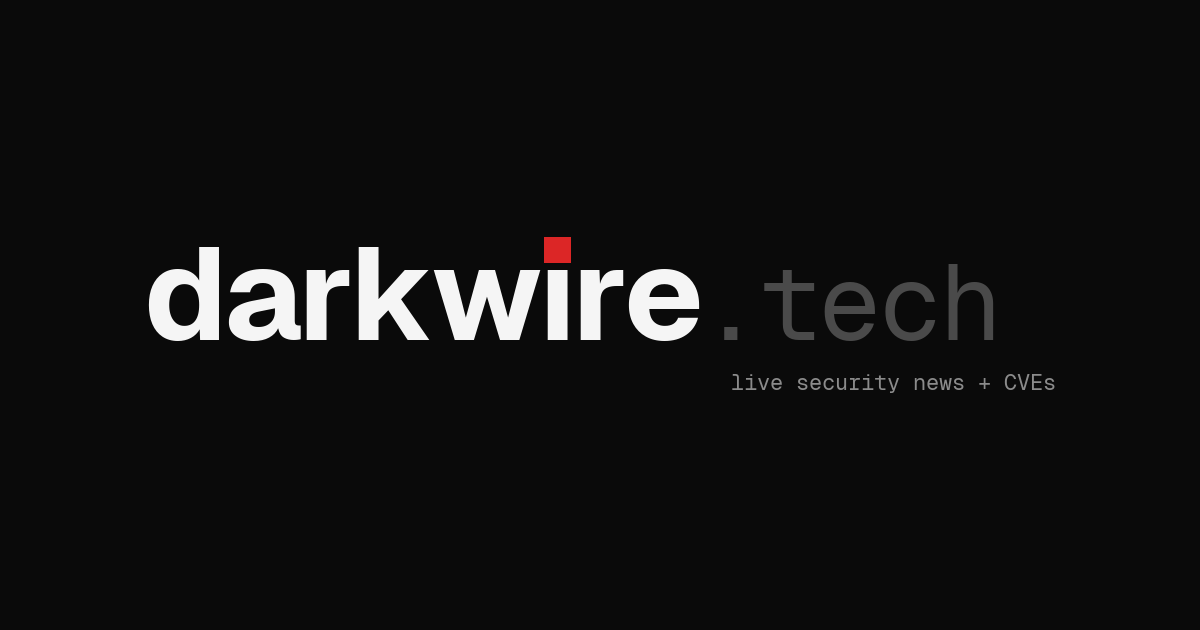
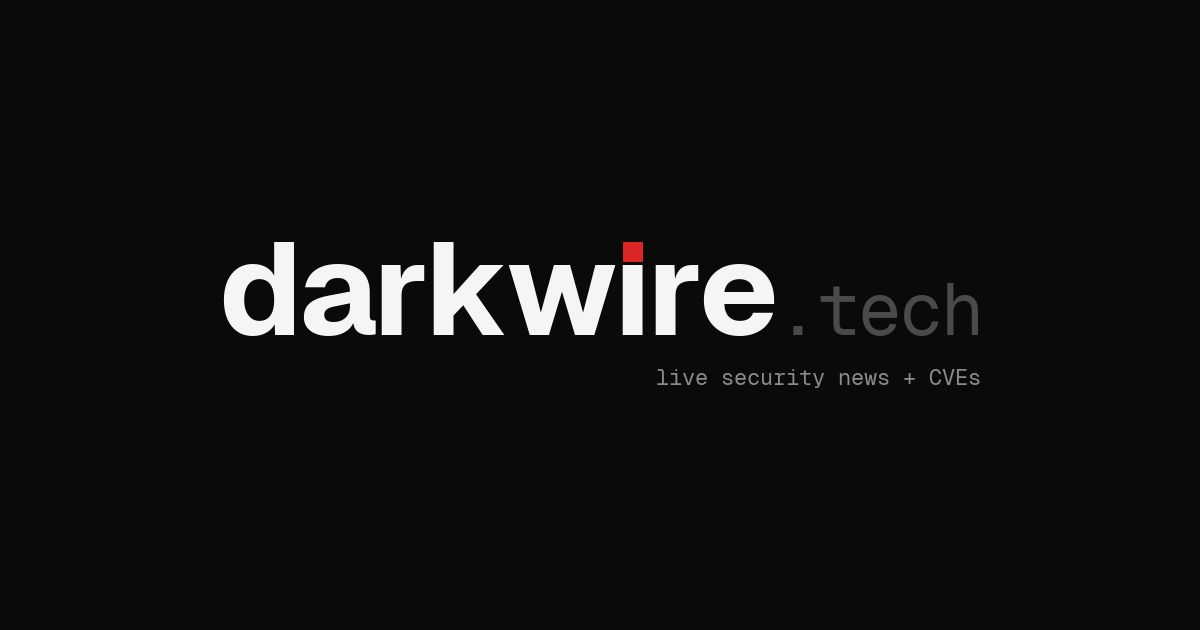
Wordmark: square measured from Geist's i (stem-wide, top on the ascender, pixel-snapped), .tech at 0.55em, faint baseline cursor; tagline ends at the h; og images regenerated

Changed region(s): [[0.1233, 0.3619, 0.8325, 0.5429], [0.555, 0.573, 0.8942, 0.6333]]

diff --git a/web/components/Wordmark.tsx b/web/components/Wordmark.tsx
@@ -1,6 +1,7 @@
 "use client"
 
 import { useCallback, useEffect, useRef, type CSSProperties } from "react"
+import type React from "react"
 import { cn } from "cn"
 
 import type { SyncState } from "@/lib/sync"
@@ -12,12 +13,18 @@ export const WORDMARK = {
     tracking: "-0.03em",
   },
   square: {
-    /** Stands in for the i's dot, over a dotless ı. */
-    size: "0.2em",
-    /** From the bottom of the ı's box (leading-none) to the square's bottom edge. */
-    bottom: "0.725em",
-    /** Horizontal nudge from the ı's center (Geist's ı stem sits a touch left of center). */
-    nudge: "0em",
+    /** Geist Sans 700 "i", measured (canvas, 1000px, ink scan), in em of the wordmark size:
+     *  stem 0.150 wide, left edge 0.066 from the glyph origin, top 0.536 above the baseline;
+     *  native tittle 0.155 x 0.120, from 0.602 to 0.722, a 0.066 gap above the stem; the
+     *  ascender of "d"/"k" tops out at 0.710. A stem-wide square over the native gap would rise
+     *  to 0.752 (above the ascender, as Geist's own tittle does), so the square keeps the stem's
+     *  width, its top sits on the ascender, and the gap is what remains (0.024em), never less
+     *  than one device pixel. Snapped to device pixels at the rendered size (see useSquareGeometry). */
+    stemWidth: 0.15,
+    stemLeft: 0.066,
+    stemTop: 0.536,
+    ascender: 0.71,
+    nativeGap: 0.066,
     live: "var(--critical)",
     stale: "var(--accent)",
     staleOpacity: 0.5,
@@ -25,7 +32,8 @@ export const WORDMARK = {
   },
   tech: {
     text: ".tech",
-    size: "0.8em",
+    /** Of the wordmark size; baseline-aligned with "darkwire". */
+    size: 0.55,
     color: "#4a4a4a",
     tracking: "-0.04em",
     /** Pulls ".tech" in toward "darkwire" (the mono "." sits mid-cell, which reads as a space),
@@ -42,9 +50,12 @@ export const WORDMARK = {
     fadeMs: 350,
   },
   cursor: {
-    color: "rgba(74, 74, 74, 0.6)",
-    width: "0.55em",
-    height: "0.78em",
+    /** A faint hint, not a block: 0.4em wide and the mono x-height tall (em of ".tech"). */
+    color: "rgba(74, 74, 74, 0.4)",
+    width: 0.4,
+    height: 0.53,
+    /** Space between the last character and the cursor, em of ".tech". */
+    gap: 0.06,
   },
   blink: {
     /** Cursor and square blink together: opacity 1 -> low -> 1 on a cosine curve. */
@@ -62,6 +73,59 @@ export const WORDMARK = {
 /** Fired by a poll that found NEW rows (lib/dots.tsx); every mounted wordmark re-runs. */
 export const NEW_ROWS_EVENT = "darkwire:new-rows"
 
+/** The cursor's reserved space after ".tech", in em of the wordmark size. The landing lockup
+ * subtracts it so the tagline and the centering use the visible end of ".tech". */
+export const CURSOR_RESERVE_EM = WORDMARK.tech.size * (WORDMARK.cursor.width + WORDMARK.cursor.gap)
+
+const sq0 = WORDMARK.square
+/** The square in em before it is measured (server render): stem-wide, top on the ascender. */
+const SQUARE_EM = {
+  size: sq0.stemWidth,
+  bottom: sq0.ascender - sq0.stemWidth,
+  left: sq0.stemLeft,
+}
+
+/** Snap the square to device pixels at the rendered size: side = stem width, top on the
+ * ascender (never above), gap to the stem at least one device pixel; if both cannot fit at a
+ * small size the square loses a pixel rather than rise above the ascender. Re-runs on resize
+ * and font load. */
+function useSquareGeometry(anchor: React.RefObject<HTMLSpanElement | null>, square: React.RefObject<HTMLSpanElement | null>) {
+  useEffect(() => {
+    const a = anchor.current
+    const sq = square.current
+    if (!a || !sq) return
+    const place = () => {
+      const fs = parseFloat(getComputedStyle(a).fontSize)
+      if (!fs) return
+      const dpr = window.devicePixelRatio || 1
+      const up = (v: number) => Math.ceil(v * dpr - 1e-6) / dpr
+      const down = (v: number) => Math.floor(v * dpr + 1e-6) / dpr
+      const near = (v: number) => Math.round(v * dpr) / dpr
+      const r = a.getBoundingClientRect() // zero-height inline-block: its bottom is the baseline
+      const base = r.bottom
+      const stemTop = base - sq0.stemTop * fs
+      const ascTop = base - sq0.ascender * fs
+      const bottom = down(stemTop - 1 / dpr) // a gap of at least one device pixel
+      const top = up(ascTop) // never above the ascender
+      const size = Math.max(1 / dpr, Math.min(near(sq0.stemWidth * fs), bottom - top))
+      const cx = r.left + (sq0.stemLeft + sq0.stemWidth / 2) * fs
+      const left = near(cx - size / 2)
+      sq.style.width = sq.style.height = `${size}px`
+      sq.style.left = `${left - r.left}px`
+      sq.style.bottom = `${base - bottom}px`
+    }
+    place()
+    const ro = new ResizeObserver(place)
+    ro.observe(a.parentElement ?? a)
+    document.fonts?.ready.then(place)
+    window.addEventListener("resize", place)
+    return () => {
+      ro.disconnect()
+      window.removeEventListener("resize", place)
+    }
+  }, [anchor, square])
+}
+
 type Phase = "idle" | "fadeout" | "pause" | "typing" | "blink" | "done"
 
 /**
@@ -73,6 +137,7 @@ type Phase = "idle" | "fadeout" | "pause" | "typing" | "blink" | "done"
  */
 export function Wordmark({ state, className, techClassName }: { state: SyncState | null; className?: string; techClassName?: string }) {
   const square = useRef<HTMLSpanElement>(null)
+  const anchor = useRef<HTMLSpanElement>(null)
   const overlay = useRef<HTMLSpanElement>(null)
   const cursor = useRef<HTMLSpanElement>(null)
   const chars = useRef<(HTMLSpanElement | null)[]>([])
@@ -81,6 +146,7 @@ export function Wordmark({ state, className, techClassName }: { state: SyncState
   const phase = useRef<Phase>("idle")
   const played = useRef(false)
   const queued = useRef(false)
+  useSquareGeometry(anchor, square)
   const stateRef = useRef(state)
   stateRef.current = state
 
@@ -235,10 +301,10 @@ export function Wordmark({ state, className, techClassName }: { state: SyncState
 
   const sq = WORDMARK.square
   const squareStyle: CSSProperties = {
-    width: sq.size,
-    height: sq.size,
-    bottom: sq.bottom,
-    marginLeft: sq.nudge,
+    width: `${SQUARE_EM.size}em`,
+    height: `${SQUARE_EM.size}em`,
+    bottom: `${SQUARE_EM.bottom}em`,
+    left: `${SQUARE_EM.left}em`,
     background: state === "down" ? sq.down : state === "stale" ? sq.stale : sq.live,
     ...(state === "stale" ? { filter: `opacity(${sq.staleOpacity})` } : {}),
   }
@@ -247,19 +313,23 @@ export function Wordmark({ state, className, techClassName }: { state: SyncState
     <span aria-hidden className={cn("inline-flex items-baseline leading-none whitespace-nowrap text-fg", className)}>
       <span style={{ fontWeight: WORDMARK.word.weight, letterSpacing: WORDMARK.word.tracking }}>
         darkw
-        <span className="relative inline-block">
+        <span className="inline-block">
+          {/* Baseline anchor: zero height, so its bottom edge is the baseline; the square is
+              placed from it with the measured glyph metrics. */}
+          <span ref={anchor} className="relative inline-block h-0 w-0 align-baseline">
+            <span ref={square} data-wordmark-square className="absolute" style={squareStyle} />
+          </span>
           {"ı"}
-          <span ref={square} data-wordmark-square className="absolute left-1/2 -translate-x-1/2" style={squareStyle} />
         </span>
         re
       </span>
       <span
         className={cn("relative inline-block font-mono font-normal", techClassName)}
-        style={{ fontSize: WORDMARK.tech.size, letterSpacing: WORDMARK.tech.tracking, color: WORDMARK.tech.color, marginLeft: WORDMARK.tech.gap }}
+        style={{ fontSize: `${WORDMARK.tech.size}em`, letterSpacing: WORDMARK.tech.tracking, color: WORDMARK.tech.color, marginLeft: WORDMARK.tech.gap }}
       >
         {/* The reserve: the full ".tech" plus the cursor, invisible, so nothing shifts. */}
         <span className="invisible">{text}</span>
-        <span className="invisible inline-block" style={{ width: WORDMARK.cursor.width }} />
+        <span className="invisible inline-block" style={{ width: `${WORDMARK.cursor.width + WORDMARK.cursor.gap}em` }} />
         <span ref={overlay} data-wordmark-tech className="absolute inset-0 text-left whitespace-pre" style={{ opacity: state === null ? 0 : undefined }}>
           {[...text].map((ch, i) => (
             <span
@@ -282,8 +352,14 @@ export function Wordmark({ state, className, techClassName }: { state: SyncState
           <span
             ref={cursor}
             data-wordmark-cursor
-            className="ml-[0.06em] inline-block align-baseline"
-            style={{ width: WORDMARK.cursor.width, height: WORDMARK.cursor.height, background: WORDMARK.cursor.color, display: "none" }}
+            className="inline-block align-baseline"
+            style={{
+              marginLeft: `${WORDMARK.cursor.gap}em`,
+              width: `${WORDMARK.cursor.width}em`,
+              height: `${WORDMARK.cursor.height}em`,
+              background: WORDMARK.cursor.color,
+              display: "none",
+            }}
           />
         </span>
       </span>

diff --git a/web/components/home/HomeBoard.tsx b/web/components/home/HomeBoard.tsx
@@ -6,7 +6,7 @@ import { cn } from "cn"
 
 import { Ticker } from "@/components/home/Ticker"
 import { PrefsControls } from "@/components/PrefsControls"
-import { NEW_ROWS_EVENT, Wordmark } from "@/components/Wordmark"
+import { CURSOR_RESERVE_EM, NEW_ROWS_EVENT, Wordmark } from "@/components/Wordmark"
 import { getFeed, getStatus, type FeedItem, type Status } from "@/lib/api"
 import { pad, useMinuteClock, utcHHMM, zoneName } from "@/lib/clock"
 import { NewDot, useDots, type DotState } from "@/lib/dots"
@@ -166,9 +166,12 @@ export function HomeBoard({ initial }: { initial: HomeData }) {
  * ".tech") at landing size, and "live security news + CVEs" under it, right-aligned to the
  * reserved end of ".tech". */
 function Lockup({ state }: { state: SyncState }) {
+  // The cursor's reserved space after ".tech" hangs outside the layout box (negative margin),
+  // so the block centers on the visible "darkwire.tech" and the tagline ends under the "h".
+  const size = "clamp(40px, 3.2vw, 64px)"
   return (
     <div className="inline-flex flex-col items-end">
-      <h1 aria-label="darkwire.tech" style={{ fontSize: "clamp(40px, 3.2vw, 64px)" }}>
+      <h1 aria-label="darkwire.tech" style={{ fontSize: size, marginRight: `calc(${size} * ${-CURSOR_RESERVE_EM})` }}>
         <Wordmark state={state} />
       </h1>
       <p className="mt-2 font-mono text-[13px] leading-4 text-muted">live security news + CVEs</p>

diff --git a/web/scripts/make-og.py b/web/scripts/make-og.py
@@ -41,18 +41,19 @@ MUTED = (0x8B, 0x8B, 0x8B)  # --muted (tagline)
 RED = (0xDC, 0x26, 0x26)  # --critical (the square)
 TECH = (0x4A, 0x4A, 0x4A)  # ".tech"
 BINARY = (0x3D, 0x1A, 0x1A)  # a character before it resolves
-CURSOR = (0x34, 0x34, 0x34)  # #4a4a4a at 60% over --bg
+CURSOR = (0x24, 0x24, 0x24)  # #4a4a4a at 40% over --bg
 RED_MID = (0x8C, 0x1C, 0x1C)  # the square half way through a blink (palette slot for fades)
 
 # Wordmark geometry, in em of the word's font size (WORDMARK in Wordmark.tsx).
 WORD_TRACKING = -0.03
-SQUARE = 0.20  # square side
-SQUARE_BOTTOM = 0.725  # from the bottom of the ı's 1em box (leading-none) to the square
-TECH_SIZE = 0.8
+# The square is measured from the font itself (as Wordmark.tsx does in the browser): side =
+# the ı stem's width, top on the ascender of "d" (never above), at least 1px above the stem.
+TECH_SIZE = 0.55
 TECH_TRACKING = -0.04  # of the tech font size
 TECH_GAP = -0.05  # of the tech font size
-CURSOR_W = 0.55  # of the tech font size
-CURSOR_H = 0.78  # of the tech font size
+CURSOR_W = 0.4  # of the tech font size
+CURSOR_H = 0.53  # of the tech font size (mono x-height)
+CURSOR_GAP = 0.06  # of the tech font size
 
 # Timing (ms).
 CHAR_MS, FLIP_MS, FADE_MS = 700, 175, 350
@@ -157,8 +158,8 @@ class Lockup:
         gap = TECH_GAP * self.tech_size
         self.tech_adv = self.tech.getlength("0") + self.t_track  # mono: one advance per cell
         tech_w = 5 * self.tech_adv
-        cursor_w = CURSOR_W * self.tech_size
-        total = word_w + gap + tech_w + cursor_w
+        # Center on the visible "darkwire.tech"; the cursor's space hangs past the "h".
+        total = word_w + gap + tech_w
 
         ascent, _ = self.word.getmetrics()
         t_box = self.tag.getbbox("live security news + CVEs")
@@ -175,23 +176,26 @@ class Lockup:
         self.tech_x = self.x0 + word_w + gap
         # Baselines line up: the tech font's origin sits so its baseline matches the word's.
         self.tech_y = self.y0 + ascent - self.tech.getmetrics()[0]
-        self.cursor_x = lambda n: self.tech_x + n * self.tech_adv + 0.06 * self.tech_size
+        self.cursor_x = lambda n: self.tech_x + n * self.tech_adv + CURSOR_GAP * self.tech_size
         self.reserve_end = self.x0 + total
         self.tag_y = self.y0 + word_bottom + TAG_GAP - t_box[1]
         self.tag_x = self.reserve_end - self.tag.getlength("live security news + CVEs")
 
     def _square_rect(self, x0, y0):
-        """The square over the ı, from the same numbers as the CSS: the ı's 1em box bottom is
-        the baseline + descent - half the leading (line-height 1)."""
-        ascent, descent = self.word.getmetrics()
-        half_leading = (WORD_SIZE - (ascent + descent)) / 2
-        box_bottom = ascent + descent + half_leading  # from the draw origin
-        side = SQUARE * WORD_SIZE
-        bottom = box_bottom - SQUARE_BOTTOM * WORD_SIZE
-        prefix = tracked_len("darkw", self.word, self.w_track) + self.w_track
-        glyph_w = self.word.getlength("ı")
-        cx = prefix + glyph_w / 2
-        return (x0 + cx - side / 2, y0 + bottom - side, x0 + cx + side / 2, y0 + bottom)
+        """The square over the ı from the font's own ink: side = stem width, top on the
+        ascender of "d", at least 1px above the stem (the square gives up a pixel before it
+        rises above the ascender)."""
+        f = self.word
+        stem_box = f.getbbox("ı")  # (x0, y0, x1, y1) from the draw origin
+        asc_top = f.getbbox("d")[1]
+        prefix = tracked_len("darkw", f, self.w_track) + self.w_track
+        stem_w = stem_box[2] - stem_box[0]
+        bottom = stem_box[1] - max(1, round(0.024 * WORD_SIZE))
+        side = min(stem_w, bottom - asc_top)
+        cx = prefix + (stem_box[0] + stem_box[2]) / 2
+        left = round(x0 + cx - side / 2)
+        top = round(y0 + bottom - side)
+        return (left, top, left + side, top + side)
 
     def draw(self, typed=5, char_state=None, tech_alpha=1.0, cursor=None, square_alpha=1.0):
         """typed: characters fully shown; char_state: (index, digit, fade 0..1) for the one

diff --git a/CLAUDE.md b/CLAUDE.md
@@ -17,7 +17,7 @@ Reference mockups: `/design-refs/home.png` and `/design-refs/wire.png`. Match th
 
 | Route | Purpose |
 |---|---|
-| `/` | Home, a calm landing page. A centered block, max 880px, about half the viewport tall with black space around it: the lockup as centerpiece, as in og.png: the nav's wordmark at `clamp(40px, 3.2vw, 64px)` (red square, typing ".tech", see Motion) with "live security news + CVEs" in 13px Geist Mono `--muted` under it, right-aligned to the reserved end of ".tech"; 20px below, a 15px date line `Sunday, Sep 27 · 14:09 PDT · 21:09 UTC` (date sans `--fg-2`, times mono `--fg-2`, dots `--dim-text`; UTC viewers see only UTC) updating each minute; the lockup and date line sit on the same center axis as Right now and OPEN WIRE; Right now (critical, KEV and exploited in the last 48h, max 3 rows of 44px with 15px headlines, linking to `/item/[id]`, or "Nothing critical in the last 48h."), a 13px ticker crossfading through the last 10 headlines every 8s, OPEN WIRE (40px, 13px mono) with CVEs · Vendors · Outages under it, and the stack link. No status line or clock: those live on `/wire`. The nav shows its wordmark here too, and hides its UTC time. Footer: sources line from `/status`, darkwire.tech. No scrolling at 1920x1080 or 2560x1440; vertically centered in portrait. |
+| `/` | Home, a calm landing page. A centered block, max 880px, about half the viewport tall with black space around it: the lockup as centerpiece, as in og.png: the nav's wordmark at `clamp(40px, 3.2vw, 64px)` (red square, typing ".tech", see Motion) with "live security news + CVEs" in 13px Geist Mono `--muted` under it, right-aligned to the visible end of ".tech" (the "h"; the cursor's space hangs outside, so the lockup centers on the visible text); 20px below, a 15px date line `Sunday, Sep 27 · 14:09 PDT · 21:09 UTC` (date sans `--fg-2`, times mono `--fg-2`, dots `--dim-text`; UTC viewers see only UTC) updating each minute; the lockup and date line sit on the same center axis as Right now and OPEN WIRE; Right now (critical, KEV and exploited in the last 48h, max 3 rows of 44px with 15px headlines, linking to `/item/[id]`, or "Nothing critical in the last 48h."), a 13px ticker crossfading through the last 10 headlines every 8s, OPEN WIRE (40px, 13px mono) with CVEs · Vendors · Outages under it, and the stack link. No status line or clock: those live on `/wire`. The nav shows its wordmark here too, and hides its UTC time. Footer: sources line from `/status`, darkwire.tech. No scrolling at 1920x1080 or 2560x1440; vertically centered in portrait. |
 | `/wire` | The board. Full feed, seven tabs, vendor filter, search, right rail. |
 | `/cves` | Every CVE on the board, one table of two-line rows (about 48px): Vendor (vendor `--fg` over product `--muted`, as a pair from CPE, else the CNA, else the KEV catalog, else the row's tag; empty if unknown), CVE / Description (CVE ID mono `--fg-2`, links to `/cve/[id]`, over the NVD description in one truncated `--fg-2` line, full text on hover; the widest column), CVSS (score and the 10-cell bar), EPSS (percent, 1 decimal; under 1% `--dim`, over 10% `--fg`), KEV (`--critical`), Patch (as in the expanded row, plus `○ unverified`), Published ("Sep 24", local). No placeholders. The Vendor header sorts alphabetically. Default order KEV first, then CVSS, then newest; headers sort. Search (ID, vendor, product, description) and chips KEV only, Critical, High, Has fix, No fix that combine and live in the URL (`?kev=1&sev=critical&q=citrix`). A row click expands the wire's expanded row in place. Subheader "N CVEs on the board · CVSS from NVD, EPSS from FIRST, KEV from CISA", or "12 of 84 …" when filtered. |
 | `/vendor/[slug]` | Everything tagged to one vendor over the last 14 days, as wire rows. Header: vendor name, "N rows in the last 14 days · N with a CVE · N in KEV · N this week", and an "Open on the wire" link (`/wire?vendor=`). `/vendors` links here. |
@@ -230,7 +230,7 @@ All from one design, generated by `web/scripts/make-og.py` (`npm run og`): the f
 
 ## Motion (all respect prefers-reduced-motion)
 
-- Wordmark (`web/components/Wordmark.tsx`, every parameter in its exported `WORDMARK` config): "darkwire" in Geist Sans 700, -0.03em, the i's dot replaced by a small square (about 0.22em) over a dotless ı, then ".tech" in Geist Mono 400 at 0.8em, #4a4a4a, -0.04em (decorative, exempt from contrast). The width of ".tech" plus the cursor is reserved, so nothing shifts. It types in: one character every ~0.7s, each first a very dim red binary digit (#3d1a1a) that changes once, then fading into the character over ~350ms, a faint block cursor (#4a4a4a at 60%) after the text. Then the cursor and the square blink together twice, in sync (one cosine curve, 1 -> 0.25 -> 1, ~1.8s each), the cursor goes and the square stays solid. It runs once on page load and again when a poll finds NEW rows (".tech" fades out over ~0.8s, 300ms pause, types again); a hidden tab queues one run for when it is visible. Square states: live `--critical`; stale (last sync over 30 min) `--accent` at 50%, no animation; failing #525252, no animation. Reduced motion: static "darkwire.tech", solid square. The link reads "darkwire.tech" (aria-label); the animated parts are aria-hidden. Shown in the nav on every page (".tech" hidden under 640px so the nav fits) and at landing size in the lockup. Plain requestAnimationFrame, no libraries. When the API does not answer, the nav status reads "Feed unreachable · retrying" in red, it retries every 15s, and the last good data stays on screen.
+- Wordmark (`web/components/Wordmark.tsx`, every parameter in its exported `WORDMARK` config): "darkwire" in Geist Sans 700, -0.03em, the i's dot replaced by a square over a dotless ı, measured from Geist's own "i": as wide as the stem, its top on the ascender of "d"/"k" (never above), at least one device pixel above the stem, snapped to device pixels at every size; then ".tech" in Geist Mono 400 at 0.55em, baseline-aligned, #4a4a4a, -0.04em (decorative, exempt from contrast). The width of ".tech" plus the cursor is reserved, so nothing shifts. It types in: one character every ~0.7s, each first a very dim red binary digit (#3d1a1a) that changes once, then fading into the character over ~350ms, a faint cursor after the text (0.4em wide, the mono x-height tall, #4a4a4a at 40%, on the baseline). Then the cursor and the square blink together twice, in sync (one cosine curve, 1 -> 0.25 -> 1, ~1.8s each), the cursor goes and the square stays solid. It runs once on page load and again when a poll finds NEW rows (".tech" fades out over ~0.8s, 300ms pause, types again); a hidden tab queues one run for when it is visible. Square states: live `--critical`; stale (last sync over 30 min) `--accent` at 50%, no animation; failing #525252, no animation. Reduced motion: static "darkwire.tech", solid square. The link reads "darkwire.tech" (aria-label); the animated parts are aria-hidden. Shown in the nav on every page (".tech" hidden under 640px so the nav fits) and at landing size in the lockup. Plain requestAnimationFrame, no libraries. When the API does not answer, the nav status reads "Feed unreachable · retrying" in red, it retries every 15s, and the last good data stays on screen.
 - The wire clock ticks seconds; the landing's date line and the nav UTC time change each minute.
 - New rows (see Live updates) fade in from the top over 300ms and get a 6px `--critical` dot just left of the headline, inside the gutter, so the headline does not shift. The dot fades in over 300ms, pulses opacity 1 -> 0.3 -> 1 three times on the 2.4s cycle (about 7.5s), then holds solid at 60%. At 10 minutes it fades out over 1s. Expanding the row clears it at once.
 - A row that arrived while the tab was hidden gets a solid dot; its three pulses start on the next visibilitychange to visible, so a returning viewer sees them.
